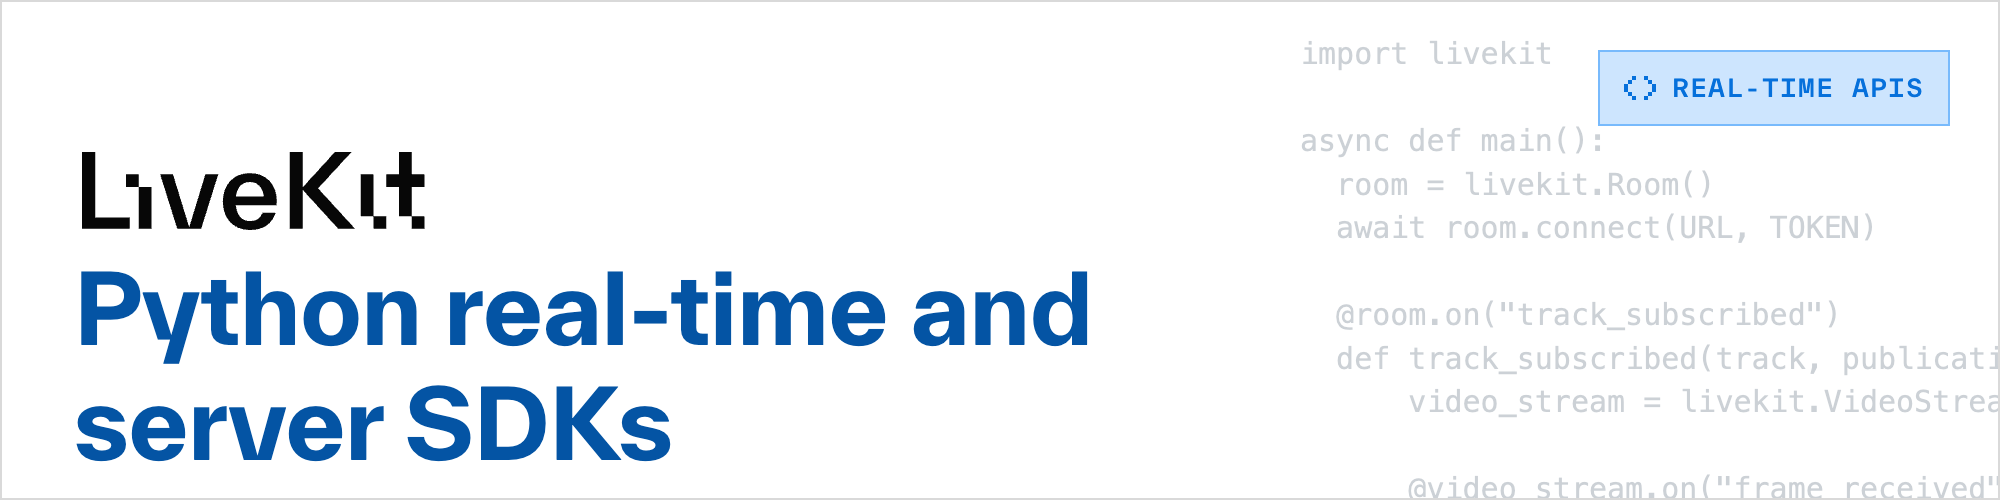
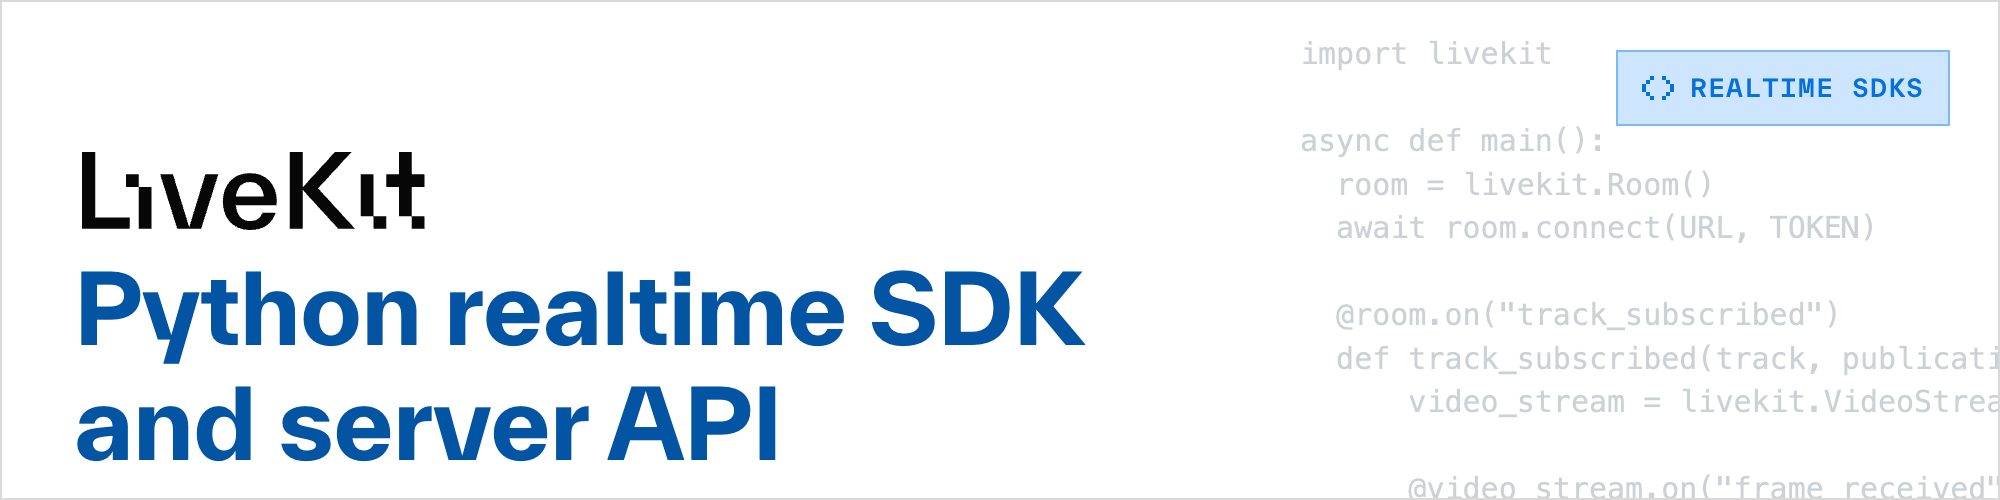
update readme

diff --git a/README.md b/README.md
@@ -13,9 +13,7 @@
 # 📹🎙🐍 Python SDK for LiveKit
 
 <!--BEGIN_DESCRIPTION-->
-
-Use this SDK to add real-time video, audio and data features to your Python app. By connecting to a self- or cloud-hosted <a href="https://livekit.io/">LiveKit</a> server, you can quickly build applications like interactive live streaming or video calls with just a few lines of code.
-
+Use this SDK to add realtime video, audio and data features to your Python app. By connecting to <a href="https://livekit.io/">LiveKit</a> Cloud or a self-hosted server, you can quickly build applications such as multi-modal AI, live streaming, or video calls with just a few lines of code.
 <!--END_DESCRIPTION-->
 
 This repo contains two packages
@@ -142,16 +140,14 @@ await chat.send_message("hello world")
 Please join us on [Slack](https://livekit.io/join-slack) to get help from our devs / community members. We welcome your contributions(PRs) and details can be discussed there.
 
 <!--BEGIN_REPO_NAV-->
-
 <br/><table>
-
 <thead><tr><th colspan="2">LiveKit Ecosystem</th></tr></thead>
 <tbody>
-<tr><td>Real-time SDKs</td><td><a href="https://github.com/livekit/components-js">React Components</a> · <a href="https://github.com/livekit/client-sdk-js">Browser</a> · <a href="https://github.com/livekit/client-sdk-swift">iOS/macOS</a> · <a href="https://github.com/livekit/client-sdk-android">Android</a> · <a href="https://github.com/livekit/client-sdk-flutter">Flutter</a> · <a href="https://github.com/livekit/client-sdk-react-native">React Native</a> · <a href="https://github.com/livekit/rust-sdks">Rust</a> · <a href="https://github.com/livekit/node-sdks">Node.js</a> · <b>Python</b> · <a href="https://github.com/livekit/client-sdk-unity-web">Unity (web)</a> · <a href="https://github.com/livekit/client-sdk-unity">Unity (beta)</a></td></tr><tr></tr>
+<tr><td>Realtime SDKs</td><td><a href="https://github.com/livekit/components-js">React Components</a> · <a href="https://github.com/livekit/client-sdk-js">Browser</a> · <a href="https://github.com/livekit/components-swift">Swift Components</a> · <a href="https://github.com/livekit/client-sdk-swift">iOS/macOS/visionOS</a> · <a href="https://github.com/livekit/client-sdk-android">Android</a> · <a href="https://github.com/livekit/client-sdk-flutter">Flutter</a> · <a href="https://github.com/livekit/client-sdk-react-native">React Native</a> · <a href="https://github.com/livekit/rust-sdks">Rust</a> · <a href="https://github.com/livekit/node-sdks">Node.js</a> · <b>Python</b> · <a href="https://github.com/livekit/client-sdk-unity-web">Unity (web)</a> · <a href="https://github.com/livekit/client-sdk-unity">Unity (beta)</a></td></tr><tr></tr>
 <tr><td>Server APIs</td><td><a href="https://github.com/livekit/node-sdks">Node.js</a> · <a href="https://github.com/livekit/server-sdk-go">Golang</a> · <a href="https://github.com/livekit/server-sdk-ruby">Ruby</a> · <a href="https://github.com/livekit/server-sdk-kotlin">Java/Kotlin</a> · <b>Python</b> · <a href="https://github.com/livekit/rust-sdks">Rust</a> · <a href="https://github.com/agence104/livekit-server-sdk-php">PHP (community)</a></td></tr><tr></tr>
 <tr><td>Agents Frameworks</td><td><a href="https://github.com/livekit/agents">Python</a> · <a href="https://github.com/livekit/agent-playground">Playground</a></td></tr><tr></tr>
-<tr><td>Services</td><td><a href="https://github.com/livekit/livekit">Livekit server</a> · <a href="https://github.com/livekit/egress">Egress</a> · <a href="https://github.com/livekit/ingress">Ingress</a> · <a href="https://github.com/livekit/sip">SIP</a></td></tr><tr></tr>
-<tr><td>Resources</td><td><a href="https://docs.livekit.io">Docs</a> · <a href="https://github.com/livekit-examples">Example apps</a> · <a href="https://livekit.io/cloud">Cloud</a> · <a href="https://docs.livekit.io/oss/deployment">Self-hosting</a> · <a href="https://github.com/livekit/livekit-cli">CLI</a></td></tr>
+<tr><td>Services</td><td><a href="https://github.com/livekit/livekit">LiveKit server</a> · <a href="https://github.com/livekit/egress">Egress</a> · <a href="https://github.com/livekit/ingress">Ingress</a> · <a href="https://github.com/livekit/sip">SIP</a></td></tr><tr></tr>
+<tr><td>Resources</td><td><a href="https://docs.livekit.io">Docs</a> · <a href="https://github.com/livekit-examples">Example apps</a> · <a href="https://livekit.io/cloud">Cloud</a> · <a href="https://docs.livekit.io/home/self-hosting/deployment">Self-hosting</a> · <a href="https://github.com/livekit/livekit-cli">CLI</a></td></tr>
 </tbody>
 </table>
 <!--END_REPO_NAV-->
